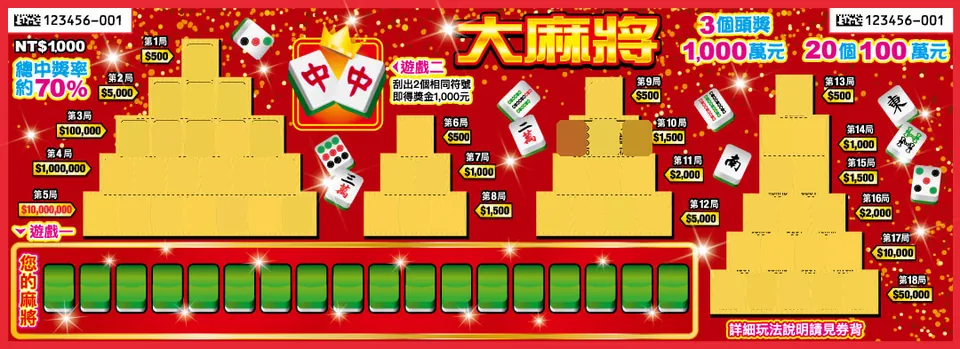
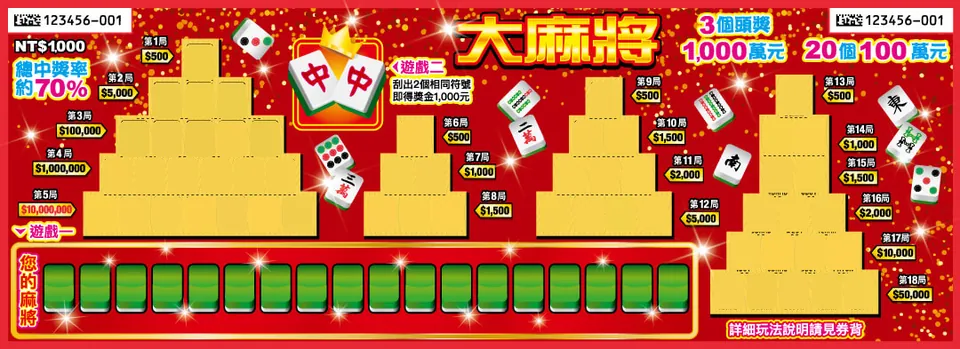
Play: 10來添金's sixth chip is a scratch spot, 大麻將's 第10局 sits on its step
Claude-Session: https://claude.ai/code/session_013WmNxxoBoktmVxFN8swQmR

Changed region(s): [[0.5625, 0.3438, 0.6875, 0.4585]]

diff --git a/public/tickets.js b/public/tickets.js
@@ -487,7 +487,7 @@ export const TICKETS = {
   },
   ten: {
     // Game 1's 8 spots: 4 round spots on the roulette ring + 4 under the card fan; game 2 the 3×3 slot boxes + 獎金 tabs;
-    // game 3 the gold coin; game 4 the $+$=cash rows; game 5 five chips (of the 6 drawn) + the 獎金 circle.
+    // game 3 the gold coin; game 4 the $+$=cash rows; game 5 the six chips + the 獎金 circle.
     size: [1080, 1080],
     lay(f, k) {
       const [g1, g2, g3, g4, g5] = f.games;
@@ -508,7 +508,7 @@ export const TICKETS = {
       });
       const [need, prize] = g5.table[0];
       const won = g5.cells.filter(x => x === g5.need).length >= need;
-      const chips = [[1000, 617], [915, 663], [865, 747], [858, 845], [912, 927]].map(([x, y], i) => k.spot([x - 43, y - 43, 86, 86], k.sym(g5.cells[i]), { win: won && g5.cells[i] === g5.need, fs: 0.42, shape: 'round' }));
+      const chips = [[1000, 617], [915, 663], [865, 747], [858, 845], [912, 927], [1000, 977]].map(([x, y], i) => k.spot([x - 43, y - 43, 86, 86], k.sym(g5.cells[i]), { win: won && g5.cells[i] === g5.need, fs: 0.42, shape: 'round' }));
       return [one, rows, coin, sums, chips, k.spot([930, 742, 118, 116], k.amt(prize), { win: won, fs: 0.5, shape: 'round' })];
     }
   },
@@ -533,7 +533,7 @@ export const TICKETS = {
     size: [1080, 393],
     lay(f, k) {
       const [g1, g2] = f.games;
-      // Pyramid: centre x, first row's top, row pitch, rounds in it.
+      // Pyramid: centre x, first row's top, row pitch, rounds in it (a round a row).
       const P = [[224.5, 50, 42.75, 5], [466.7, 135, 42.5, 3], [680, 92, 42.7, 4], [893.3, 89, 43.6, 6]];
       const won = new Set();
       let i = 0;
